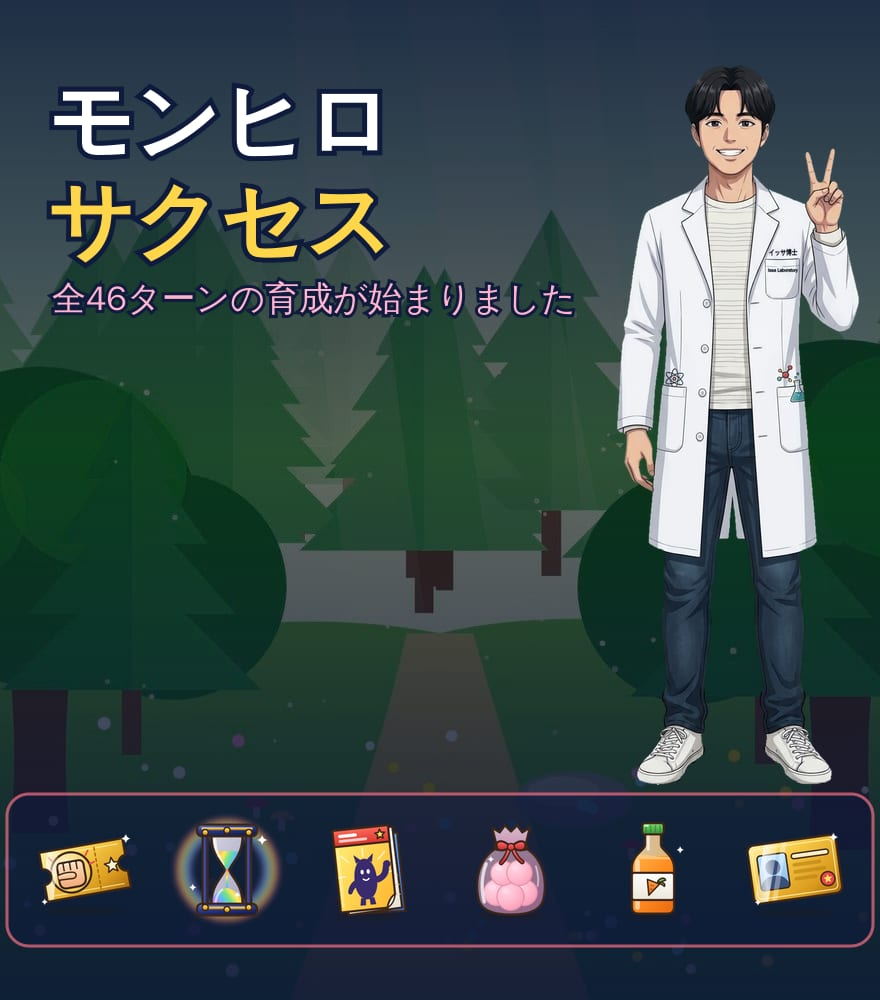
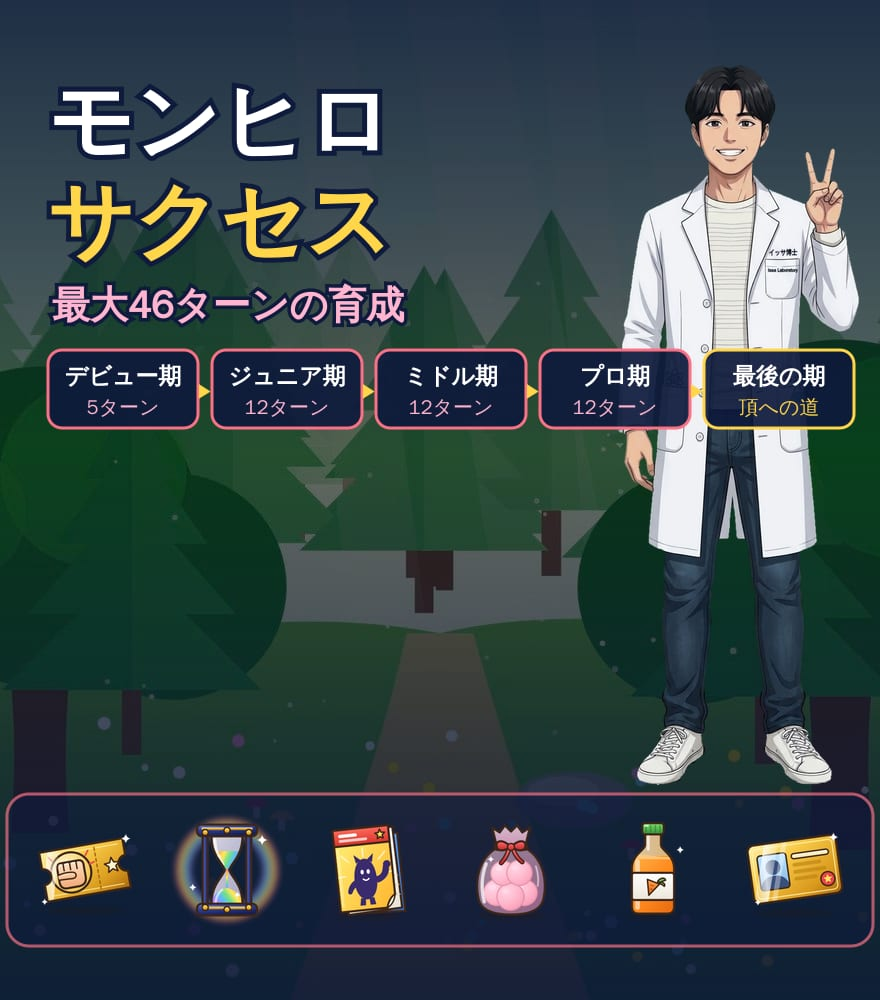
キー画像に最大46ターンと期の流れを入れ、評価7段・ライバル全能力+12を下書きへ反映(資料・道具のみ)
Claude-Session: https://claude.ai/code/session_0113GBaAqPrLwFzuZrKsM4gK

Changed region(s): [[0.0307, 0.279, 0.9818, 0.434]]

diff --git a/tools/success/make-key-visual.js b/tools/success/make-key-visual.js
@@ -28,10 +28,21 @@ const pickScene = () => {
     const p = path.join(root, `monster-hero/images/success/items/${names[i]}.png`);
     icons.push({ input: await sharp(p).resize(size, size, { fit: 'contain', background: { r: 0, g: 0, b: 0, alpha: 0 } }).toBuffer(), left: x0 + i * (size + gap), top: y0 });
   }
+  // 期の流れ(PLAN.md・TOURNAMENT.md の正式な呼び方とターン数)
+  const periods = [['デビュー期', '5'], ['ジュニア期', '12'], ['ミドル期', '12'], ['プロ期', '12'], ['最後の期', '5']];
+  const bw = 150, bgap = 14, bx0 = 48, by = 350;
+  const flow = periods.map((p, i) => {
+    const x = bx0 + i * (bw + bgap), last = i === periods.length - 1;
+    const sub = last ? '頂への道' : p[1] + 'ターン';
+    return `<rect x="${x}" y="${by}" width="${bw}" height="78" rx="14" fill="#0f1b3d" fill-opacity=".92" stroke="${last ? '#ffd54a' : '#fb7185'}" stroke-width="3"/>
+    <text x="${x + bw / 2}" y="${by + 34}" font-size="23" font-weight="700" fill="#fff" text-anchor="middle">${p[0]}</text>
+    <text x="${x + bw / 2}" y="${by + 64}" font-size="20" fill="${last ? '#ffd54a' : '#ffb4cf'}" text-anchor="middle">${sub}</text>` + (last ? '' : `<text x="${x + bw + bgap / 2}" y="${by + 48}" font-size="18" fill="#ffd54a" text-anchor="middle">▶</text>`);
+  }).join('\n');
   const text = Buffer.from(`<svg width="${W}" height="${H}" xmlns="http://www.w3.org/2000/svg" font-family="WenQuanYi Zen Hei, Noto Sans CJK JP, sans-serif">
     <text x="48" y="150" font-size="84" font-weight="700" fill="#ffffff" stroke="#0f1b3d" stroke-width="10" paint-order="stroke">モンヒロ</text>
     <text x="48" y="250" font-size="84" font-weight="700" fill="#ffd54a" stroke="#0f1b3d" stroke-width="10" paint-order="stroke">サクセス</text>
-    <text x="52" y="310" font-size="34" fill="#ffb4cf" stroke="#0f1b3d" stroke-width="6" paint-order="stroke">全46ターンの育成が始まりました</text>
+    <text x="52" y="318" font-size="38" font-weight="700" fill="#ffb4cf" stroke="#0f1b3d" stroke-width="7" paint-order="stroke">最大46ターンの育成</text>
+    ${flow}
     <rect x="${x0 - 18}" y="${y0 - 16}" width="${rowW + 36}" height="${size + 32}" rx="22" fill="#0f1b3d" fill-opacity=".55" stroke="#fb7185" stroke-opacity=".7" stroke-width="3"/>
   </svg>`);
   const rectLayer = text; // 枠はアイコンの下に敷きたいので先に重ねる

diff --git a/docs/progress/player-raise/RELEASE-DRAFT.md b/docs/progress/player-raise/RELEASE-DRAFT.md
@@ -181,7 +181,7 @@
 - `list`:
   - **スキップ**: 一度でも(前の育成も含めて)優勝した大会は、次から結果だけを見てスキップできます
   - **やり直し**: 負けたら「時渡りの砂時計」(同じ相手ともう一度)か「虹の時渡りの砂時計」(相手を変えてもう一度)でやり直せます。この2つを合わせて、**1回の育成で3回まで**です(芯 `REMATCH`)。砂時計は持ちこみ・出来事・大会のごほうび・マーケットで手に入ります
-  - **ライバル**: ときどき、自分の助手のマスモンやフレンドのモンスターがライバルとして出ます。月の大会があるターンの約4分の1で、その月の大会のどれか1つに出ます(札にアイコンが付きます)。ふつうの強豪より少し強いですが、勝てば賞金が1.5倍・能力ポイント +5・修行チケット +1・称号「ライバルに勝った」がもらえます。ライバルの強さは期に合わせて整えるので、勝てないほど強くはなりません
+  - **ライバル**: ときどき、自分の助手のマスモンやフレンドのモンスターがライバルとして出ます。月の大会があるターンの約4分の1で、その月の大会のどれか1つに出ます(札にアイコンが付きます)。ふつうの強豪より少し強いですが、勝てば賞金が1.5倍・**全能力 +12**・能力ポイント +5・修行チケット +1・称号「ライバルに勝った」がもらえます。ライバルの強さは期に合わせて整えるので、勝てないほど強くはなりません
   - **デビュー戦**: 負けると、ジュニア期は勝つまで毎ターン再挑戦の大会になり、訓練ができません。負けるたびに相手が1割ずつ弱くなります(最大でもとの6割まで)
   - **頂への道**: 最後の期の残り3ターンで、1回戦 → 準決勝 → 決勝を月に1戦ずつ戦います。決勝のごほうびは2通りから選べます
 - `note`「能力ポイント」: 大会でもらえるポイントです。引退までに、好きな能力へ振れます。
@@ -268,7 +268,7 @@
 - `p`: 46ターンを走り切ったとき、頂への道で負けたとき、途中で「ここで引退する」を選んだとき、育成が終わって**引退**します(モンスターは消えません)。
 - `list`:
   - 振り返りで、能力の伸びの線・大会の成績・助手の一言が見られます
-  - 最終の総合力で**評価**が決まります。評価は C〜S です。C は 8,000 未満 / B は 8,000以上 / A は 11,000以上 / S は 14,000以上(**仮**・窓口が決めた区切り)
+  - 最終の総合力で**評価**が決まります。評価は **7段**(C・B・A・S・SS・SSS・M)です。C は 8,000 未満 / B は 8,000以上 / A は 11,000以上 / S は 14,000以上 / **M は 20,000以上**。SS と SSS の区切りは**仮**(S と M のあいだ。社長・窓口の答え待ち)
   - 評価に応じてアシストポイントがもらえます(上の「アシスト能力」)
   - 引退した助手の仲良し度が少し上がります(**1日3回の引退まで**)
 - `p`: 引退したモンスターは**保存枠**に入ります。
@@ -318,7 +318,7 @@
 ### 公開用の絵
 
 - いまは `docs/progress/player-raise/art/monsaku-open.jpg`(880×1000・約75KB・予告の絵と同じ大きさ)。**公開の PR で `monster-hero/images/events/monsaku-open.jpg` へ移し**(公開前に images/ へ置くと `image-asset-check` が「使われていない画像」と止める)、更新履歴の `image` にそのパスを書く(`?v=` は手で書かず `node tools/build.js` に任せる)
-- 作る道具: `node tools/success/make-key-visual.js`(何度でも作り直せる)。景色は `monster-hero/images/success/scenes/` に画像があればその最初の1枚、無ければ既存の森の背景(`story-bg/forest_deep.jpg`)を暗くして使う。イッサ博士(`docs/progress/player-raise/art/issa-hakase.png`)とアイテムの絵(`images/success/items/`)を重ね、題字は「モンヒロサクセス」。景色が届いたら道具を回し直すだけで差し替わる
+- 作る道具: `node tools/success/make-key-visual.js`(何度でも作り直せる)。景色は `monster-hero/images/success/scenes/` に画像があればその最初の1枚、無ければ既存の森の背景(`story-bg/forest_deep.jpg`)を暗くして使う。イッサ博士(`docs/progress/player-raise/art/issa-hakase.png`)とアイテムの絵(`images/success/items/`)を重ね、題字は「モンヒロサクセス」と「最大46ターンの育成」、その下に期の流れ(デビュー期 5 → ジュニア期 12 → ミドル期 12 → プロ期 12 → 最後の期=頂への道)を並べた(社長の答え 2026-11-12。期の名前とターン数は PLAN・TOURNAMENT の正式な呼び方)。景色が届いたら道具を回し直すだけで差し替わる
 - ゲームに入れるときは `node tools/build.js` のあと `node tools/image-asset-check.js`
 
 ---
@@ -338,7 +338,7 @@
 | 修行 4つの行き先・外れで +15・熟練 +10・技8つ | `SHUGYO`・`TECH_MAX` | 案 |
 | ごはん 150/300/500 | `MEALS` | 案(仮) |
 | 砂時計 2種・合わせて3回まで・持ちこみ各3つまで | `REMATCH` | 決まり(社長)/各3つは案 |
-| ライバル 25%・強さ ×1.1・賞金 ×1.5・能力ポイント +5・チケット +1 | `RIVAL` | 案(仮) |
+| ライバル 25%・強さ ×1.1・賞金 ×1.5・全能力 +12(社長)・能力ポイント +5・チケット +1 | `RIVAL` | 全能力 +12 は決まり(社長 2026-11-12)/ほかは案(仮)。芯の `RIVAL` にはまだ入っていない |
 | デビュー戦 3回負けでゲームオーバー・1割ずつ弱く・6割まで | `DEBUT_LOSS_MAX`・`DEBUT_RETRY_WEAKEN`・`DEBUT_RETRY_FLOOR` | 決まり(社長) |
 | 親密度 +8・タッグ 80・タッグの強さ 15〜35%(助手25%) | `BOND`・`TAG_POWER` | 決まり(社長 ASSIST §0b) |
 | 集まる率 30/20/15%・3体以上 +10% | `GATHER` | 決まり(社長 2026-11-12) |
@@ -346,7 +346,7 @@
 | アシストポイント = 総合力 ÷ 50(20〜400) | `assistPointsOf` | 決まり(社長) |
 | イッサ博士の確率 35/60/90/75/75% | `ISSA` | 決まり(社長 EVENTS 4-⑥) |
 | 博士の出会い 約3%・3回まで・ストレス70で来ない | `ISSA.rate`・`maxMeet`・`stressNo` | 案 |
-| 評価の区切り C〜7,999・B 8,000〜・A 11,000〜・S 14,000〜 | (芯の外・台帳 2026-11-12 窓口) | 窓口が決めた |
+| 評価は7段(C/B/A/S/SS/SSS/M)・C〜7,999・B 8,000〜・A 11,000〜・S 14,000〜・M 20,000〜(SS・SSS は未定) | (芯の外・台帳 2026-11-12 窓口) | 窓口が決めた/SS・SSS は仮 |
 | 保存枠 30体・最大60体(引退10回ごとに +5) | (PLAN §3) | 案 |
 | 助手の仲良し度は1日3回の引退まで | (PLAN §4) | 決まり |
 
